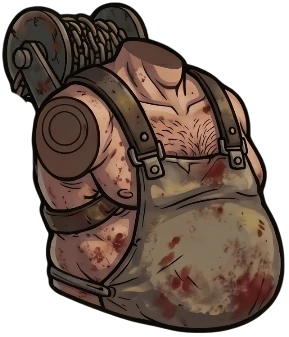
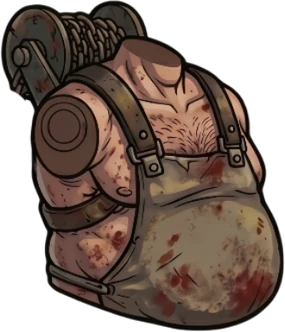
v2.62: kancacının gövdesi yenilendi, belden aşağısı tek parça (h_alt), kancacı yere düşmez
Claude-Session: https://claude.ai/code/session_01Nw2dWxcV1APck4jireKUph

diff --git a/www/index.html b/www/index.html
@@ -1,7 +1,7 @@
 <!doctype html>
 <html lang="tr"><head><meta charset="utf-8"><meta name="viewport" content="width=device-width,initial-scale=1,viewport-fit=cover,user-scalable=no">
 <title>Popeye Fighter</title>
-<link rel="stylesheet" href="css/oyun.css?v=2.61">
+<link rel="stylesheet" href="css/oyun.css?v=2.62">
 </head><body>
 
 
@@ -16,20 +16,20 @@
 <div class="mini" id="kapat">✕</div>
 <div id="yuk">YÜKLENİYOR…</div>
 
-<script src="js/ayar.js?v=2.61"></script>
-<script src="js/girdi.js?v=2.61"></script>
-<script src="js/el.js?v=2.61"></script>
-<script src="js/ozel.js?v=2.61"></script>
-<script src="js/mermi.js?v=2.61"></script>
-<script src="js/dusman_kur.js?v=2.61"></script>
-<script src="js/ses.js?v=2.61"></script>
-<script src="js/efekt.js?v=2.61"></script>
-<script src="js/savas.js?v=2.61"></script>
-<script src="js/korsan.js?v=2.61"></script>
-<script src="js/hud.js?v=2.61"></script>
-<script src="js/kombo.js?v=2.61"></script>
-<script src="js/oyuncu.js?v=2.61"></script>
-<script src="js/dongu.js?v=2.61"></script>
+<script src="js/ayar.js?v=2.62"></script>
+<script src="js/girdi.js?v=2.62"></script>
+<script src="js/el.js?v=2.62"></script>
+<script src="js/ozel.js?v=2.62"></script>
+<script src="js/mermi.js?v=2.62"></script>
+<script src="js/dusman_kur.js?v=2.62"></script>
+<script src="js/ses.js?v=2.62"></script>
+<script src="js/efekt.js?v=2.62"></script>
+<script src="js/savas.js?v=2.62"></script>
+<script src="js/korsan.js?v=2.62"></script>
+<script src="js/hud.js?v=2.62"></script>
+<script src="js/kombo.js?v=2.62"></script>
+<script src="js/oyuncu.js?v=2.62"></script>
+<script src="js/dongu.js?v=2.62"></script>
 </script>
 
 </body>

diff --git a/www/js/ayar.js b/www/js/ayar.js
@@ -1,9 +1,9 @@
 'use strict';
 // Ayarlar, sürüm, görsel yükleyici, ekran boyutu, oyuncu durumu (S)
 // ---------- Görseller: hepsi tek yükleyiciyle; tamamı inince oyun başlar ----------
-const OYUN_SURUM='v2.61';      // ekrandaki sürüm (her değişiklikte artar)
+const OYUN_SURUM='v2.62';      // ekrandaki sürüm (her değişiklikte artar)
 document.getElementById('surum').textContent=OYUN_SURUM;
-const SURUM='?v=55';                 // görsel değişince artır: tarayıcı eski önbelleği kullanmasın
+const SURUM='?v=56';                 // görsel değişince artır: tarayıcı eski önbelleği kullanmasın
 const KP=['kafa','govde','kalca','ust','on','elN','elF','uy','bacak','bot'];      // korsan parça seti (k: yumruklu, b: bıçaklı, p: tabancalı kaptan)
 const ADLAR=['kalca','ustkol','onkol','onkol2','uyluk','altpan','bacak_bot','el_yum','el_yum_f','el_ac_n','el_ac_f','el_pN','el_pF','p_mermi','p_ates','h_elB','h_kanca','h_zincir']
   .concat([...Array(11).keys()].map(i=>'govde'+i),...['k_','b_','p_','h_'].map(q=>KP.map(n=>q+n)));
@@ -23,6 +23,7 @@ function yukle(src,al){
   im.src=src+SURUM;
 }
 ADLAR.forEach(a=>yukle('parca/'+a+'.webp',im=>R[a]=im));
+yukle('parca/h_alt.webp',im=>R.h_alt=im);      // kancacının tek parça belden aşağısı
 ['k_','b_','p_','h_'].forEach(q=>['vur','ahh'].forEach(n=>yukle('parca/'+q+n+'.webp',im=>R[q+n]=im)));      // korsanların vurulunca acı yüzü (vur), yerde bayılmış yüzü (ahh)
 for(let i=0;i<11;i++)yukle('yuz/yuz'+i+'.webp',im=>YUZ[i]=im);
 for(let i=0;i<10;i++)yukle('yuz/yuzA'+i+'.webp',im=>YUZA[i]=im);

diff --git a/www/js/savas.js b/www/js/savas.js
@@ -13,7 +13,7 @@ function vur(e,dmg,vx,vy,f,hy){
   const L=Math.hypot(vx,vy)||1,dx=vx/L+(e.x>=S.x?1:-1)*0.35,dy=vy/L;
   const kb=0.5*(250+2450*kisit(dmg/50,0,1))*(e.boss?0.25:1);      // itme hasarla orantılı
   if(!e.tut){e.vx=dx*kb;e.vy=e.boss?0:dy*kb+250}
-  if(!e.boss&&!e.tut&&e.hp>0&&dmg>=25&&dmg<9999){      // ağır vuruş (25+): biraz geri uçup yere düşer; hasar arttıkça yerde sersem kalma uzar
+  if(!e.boss&&e.kc!=='h'&&!e.tut&&e.hp>0&&dmg>=25&&dmg<9999){      // ağır vuruş (25+): biraz geri uçup yere düşer; hasar arttıkça yerde sersem kalma uzar
     const yn=e.x>=S.x?1:-1,sr=kisit(0.8+(dmg-25)*0.06,0.8,4);e.cy0=e.cy0||e.cy;
     if(e.dus)e.dus.son=Math.max(e.dus.son,S.t+sr+0.5);else e.dus={t0:S.t,son:S.t+0.35+sr+0.5,yn};
     e.vx=yn*Math.min(Math.abs(e.vx),700);e.vy=Math.min(e.vy,450)}
